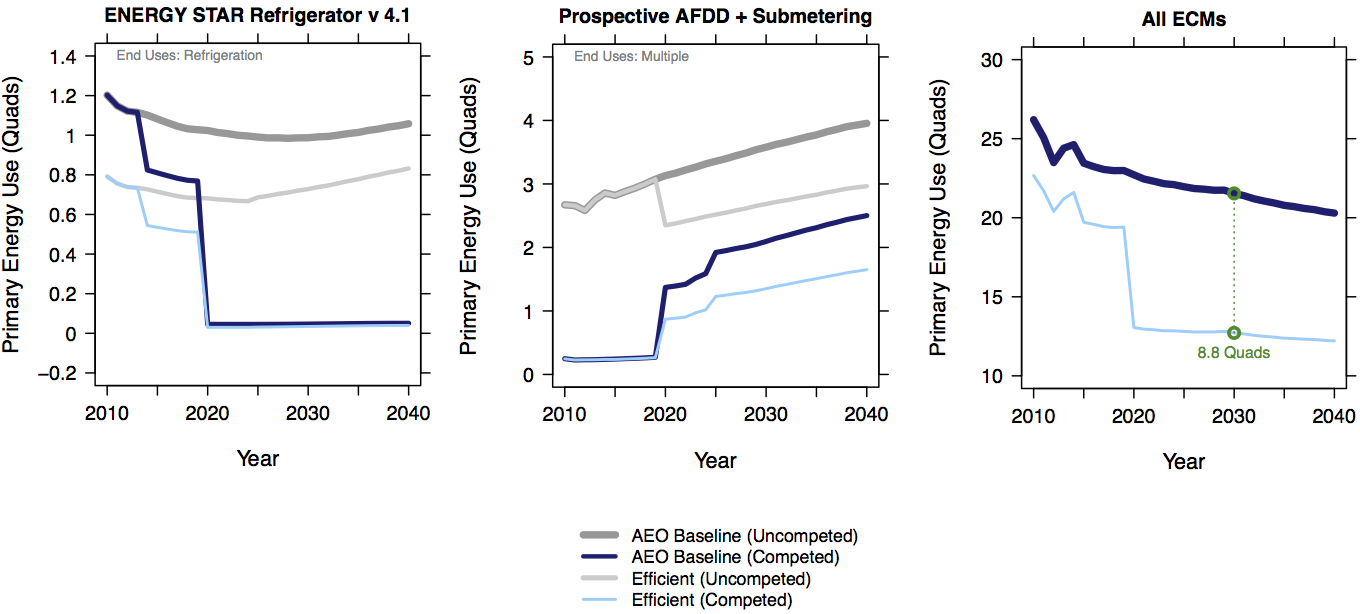
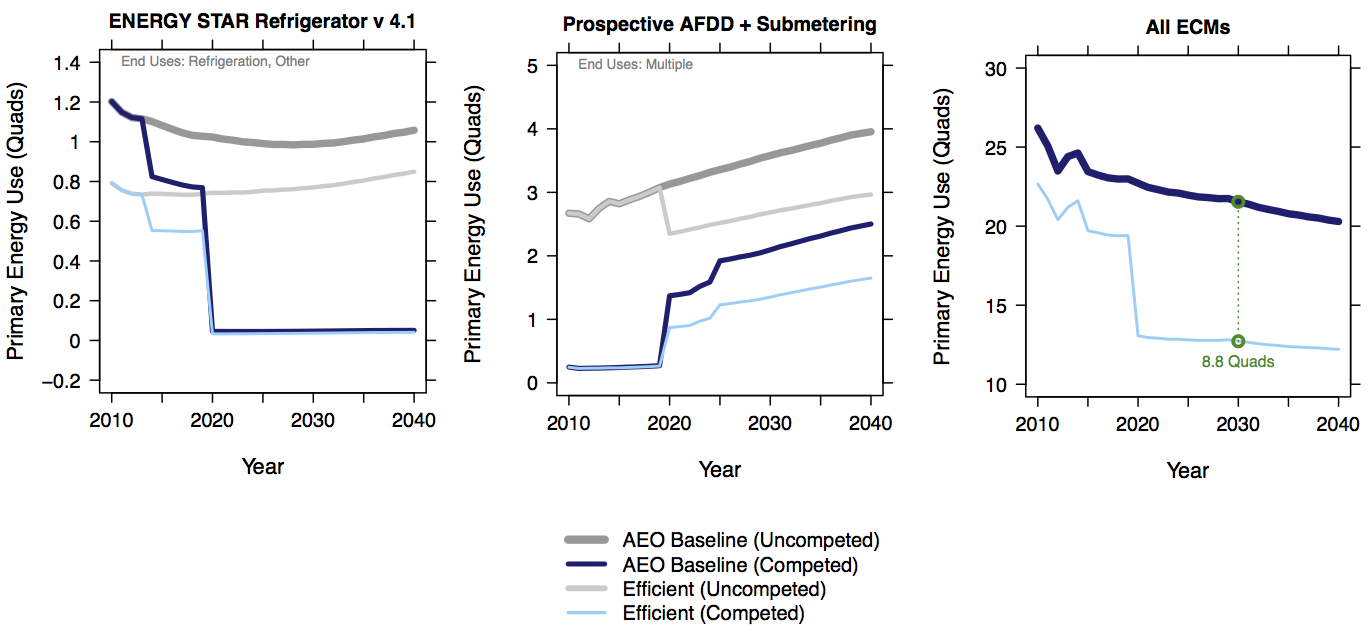
Slight adjustment to relative performance weighting
The relative energy performance level of baseline stock previously captured by an ECM is a weighted combination of the ECM’s relative performance level for the current year and all previous years it has been on the market.

Previously, the weights for this calculation were based on the proportions of competed and previously captured stock for the ECM. In the technical potential scenario, however, these proportions sometimes change dramatically from year to year, yielding sharp changes in the weighted relative performance value over time. With this change, a consistent baseline stock turnover rate is used for the weighting (1/baseline lifetime + retrofit rate).

A related update was made to one of the images in Tutorial 5 Figure 3.

Former-commit-id: 8c407611c3f317717ac0f270bafb85067038e7dd

diff --git a/ecm_prep.py b/ecm_prep.py
@@ -3003,14 +3003,11 @@ class Measure(object):
             if int(yr) <= self.market_entry_year:
                 rel_perf_uncomp_capt = rel_perf[yr]
             else:
-                total_capture = competed_captured_eff_frac + (
-                    1 - competed_frac) * captured_eff_frac
-                if total_capture != 0:
-                    rel_perf_uncomp_capt = (
-                        rel_perf_comp_capt * competed_captured_eff_frac +
-                        rel_perf_uncomp_capt * (
-                            total_capture - competed_captured_eff_frac)) / \
-                        total_capture
+                base_turnover_wt = (
+                    (1 / life_base[yr]) + self.handyvars.retro_rate)
+                rel_perf_uncomp_capt = (
+                    rel_perf[yr] * base_turnover_wt +
+                    rel_perf_uncomp_capt * (1 - base_turnover_wt))
 
             # Update total-efficient and competed-efficient energy and
             # carbon, where "efficient" signifies the total and competed
